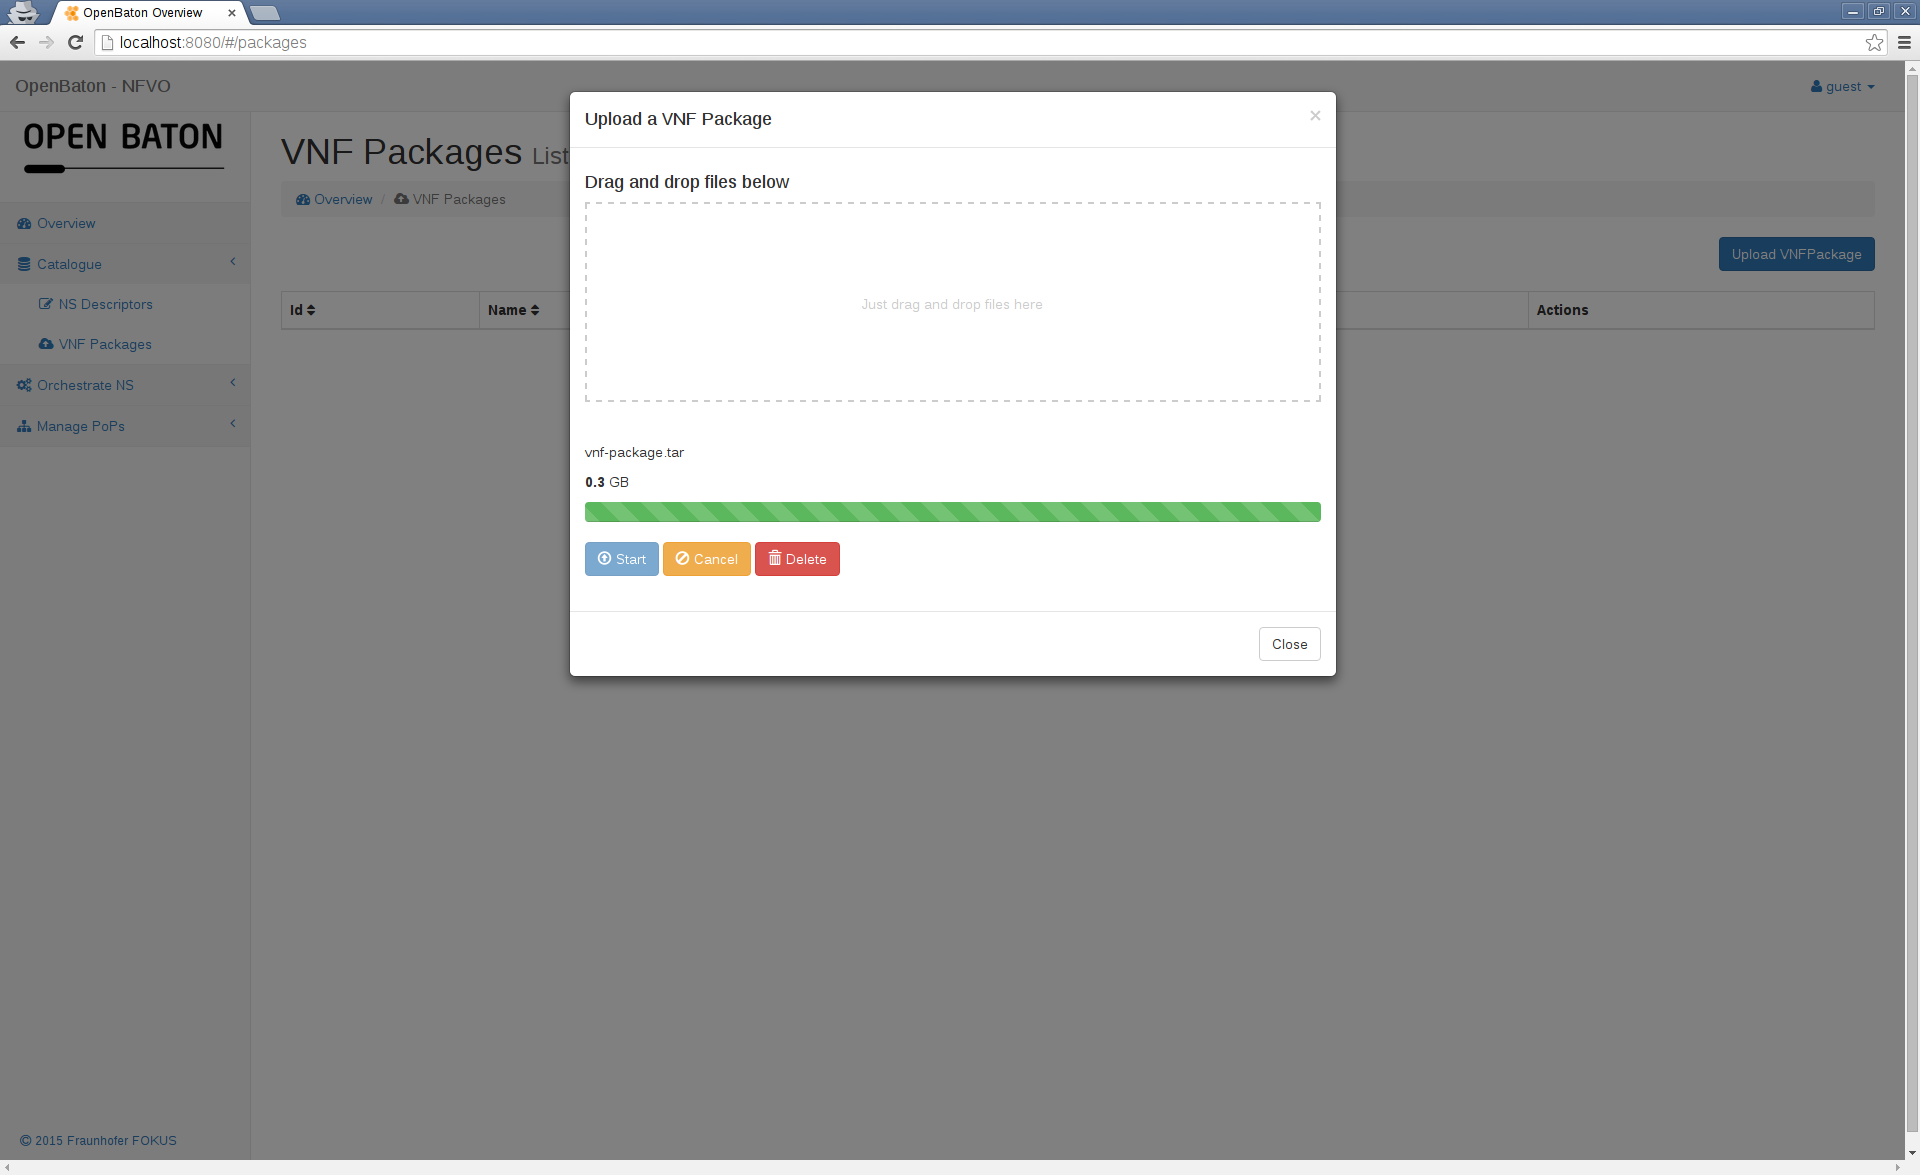
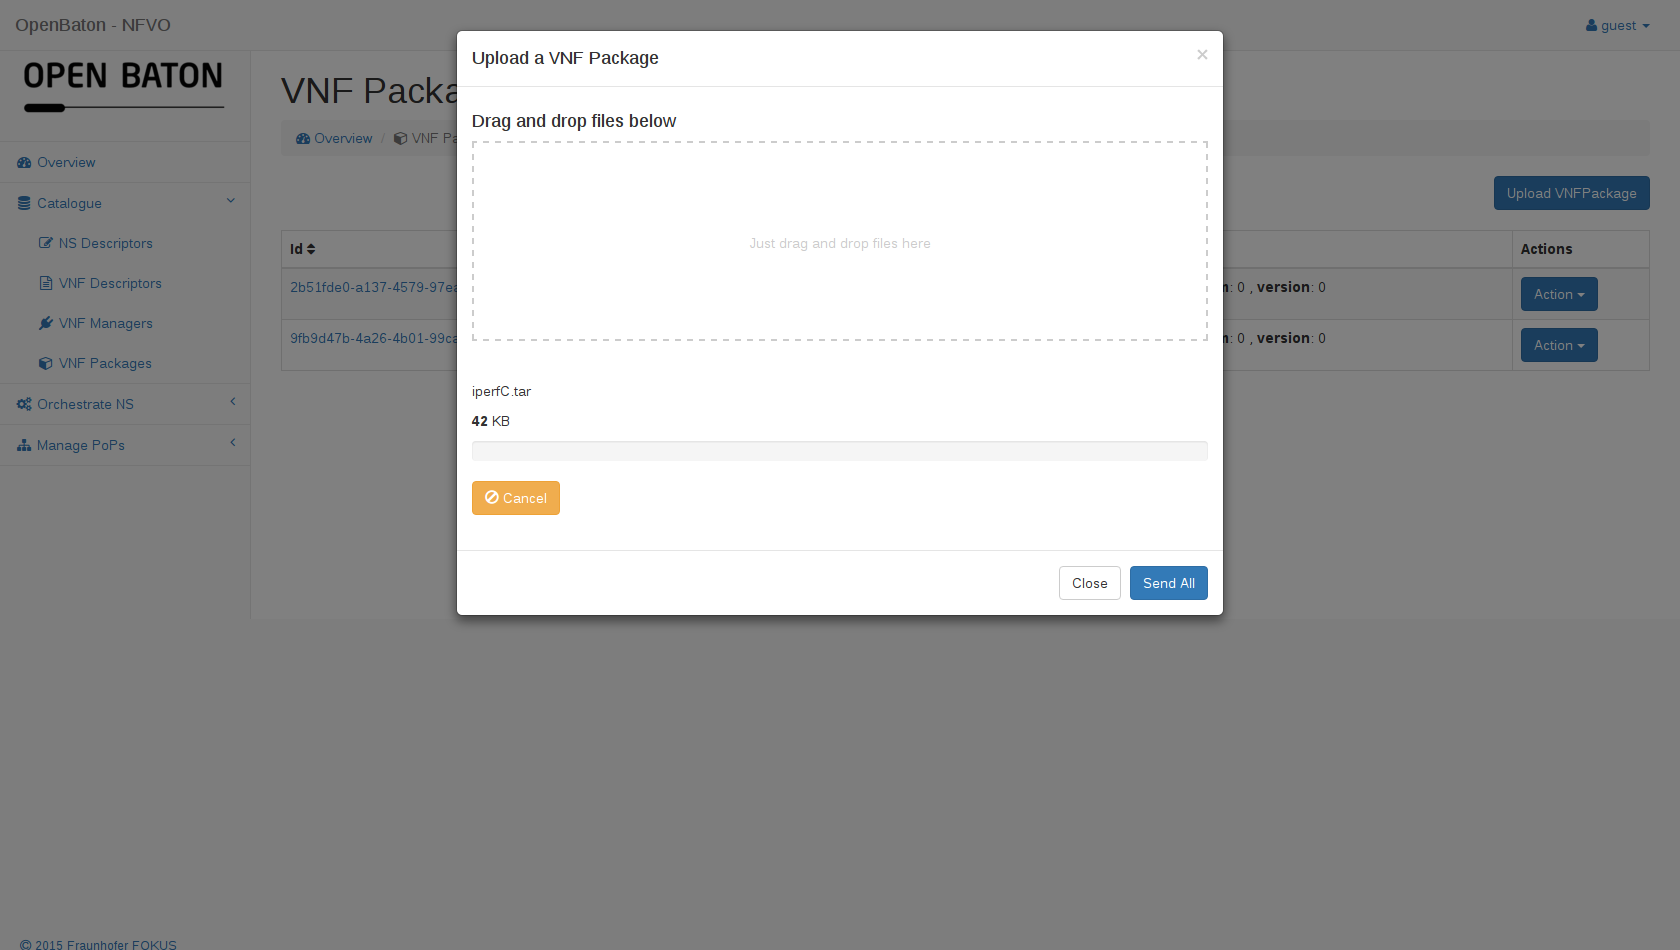
Updated the vnfPackage picture

diff --git a/docs/nfvo-how-to-use-gui.md b/docs/nfvo-how-to-use-gui.md
@@ -122,7 +122,7 @@ For uploading a _.tar_ you can click on the button **Upload VNFPackage** and thi
 
 ![Drag&Drop modal][drag_drop]
 
-After you click on the button **Start** the package will be sent to the _NFVO_ and once the process is finished you will see the package appearing in the list
+After you click on the button **Send All** the packages will be sent to the _NFVO_ and once the process is finished you will see the package appearing in the list
 
 ![Drag&Drop modal start][drag_drop1]
 
